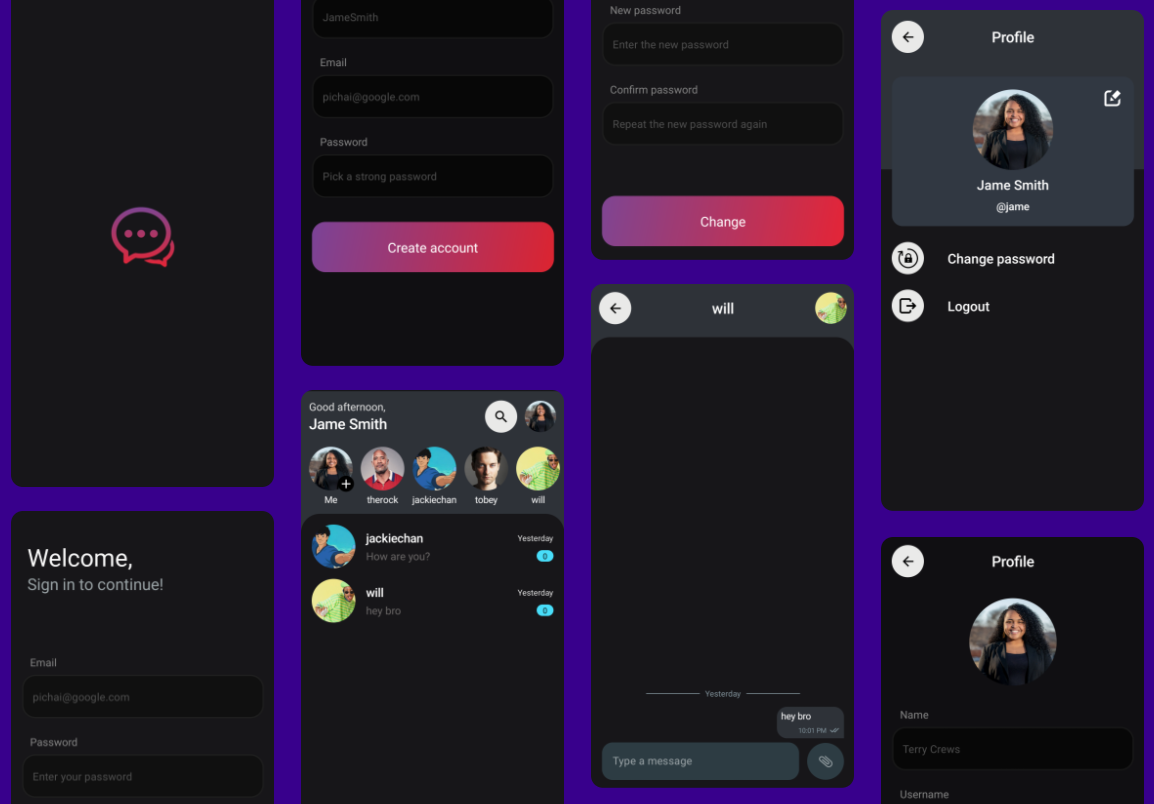
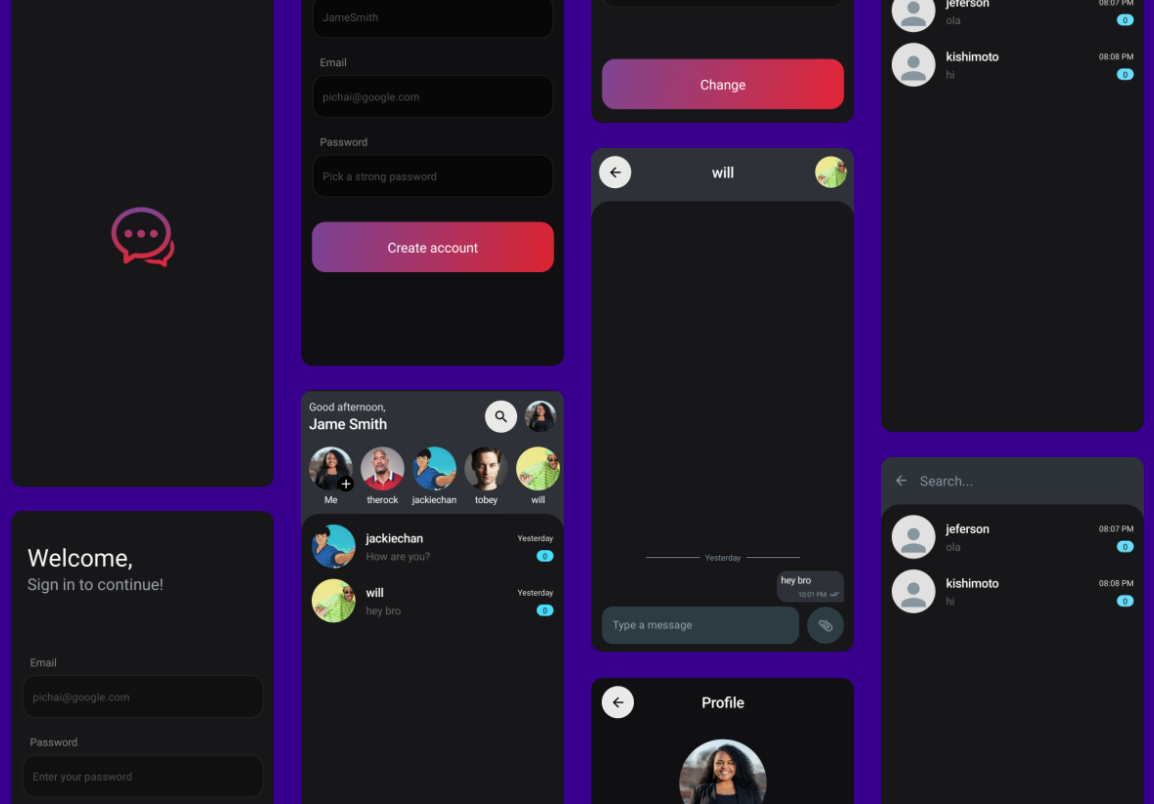
added implement search

diff --git a/app/src/main/java/com/jefisu/chatapp/features_chat/presentation/home/HomeScreen.kt b/app/src/main/java/com/jefisu/chatapp/features_chat/presentation/home/HomeScreen.kt
@@ -1,28 +1,51 @@
 package com.jefisu.chatapp.features_chat.presentation.home
 
-import android.widget.Toast
+import androidx.compose.animation.AnimatedVisibility
+import androidx.compose.animation.fadeIn
+import androidx.compose.animation.fadeOut
+import androidx.compose.foundation.ExperimentalFoundationApi
 import androidx.compose.foundation.background
-import androidx.compose.foundation.layout.*
+import androidx.compose.foundation.layout.Box
+import androidx.compose.foundation.layout.Column
+import androidx.compose.foundation.layout.Row
+import androidx.compose.foundation.layout.Spacer
+import androidx.compose.foundation.layout.fillMaxSize
+import androidx.compose.foundation.layout.fillMaxWidth
+import androidx.compose.foundation.layout.height
+import androidx.compose.foundation.layout.padding
+import androidx.compose.foundation.layout.width
 import androidx.compose.foundation.lazy.LazyColumn
 import androidx.compose.foundation.lazy.LazyRow
 import androidx.compose.foundation.lazy.items
 import androidx.compose.foundation.shape.RoundedCornerShape
+import androidx.compose.material.Icon
+import androidx.compose.material.IconButton
 import androidx.compose.material.Text
+import androidx.compose.material.TextField
+import androidx.compose.material.TextFieldDefaults
 import androidx.compose.material.icons.Icons
+import androidx.compose.material.icons.filled.ArrowBack
+import androidx.compose.material.icons.filled.Close
 import androidx.compose.material.icons.filled.Search
 import androidx.compose.runtime.Composable
 import androidx.compose.runtime.LaunchedEffect
 import androidx.compose.runtime.collectAsState
 import androidx.compose.runtime.getValue
+import androidx.compose.runtime.mutableStateOf
+import androidx.compose.runtime.remember
+import androidx.compose.runtime.setValue
 import androidx.compose.ui.Alignment
 import androidx.compose.ui.Modifier
 import androidx.compose.ui.draw.clip
 import androidx.compose.ui.graphics.Color
 import androidx.compose.ui.platform.LocalContext
+import androidx.compose.ui.res.stringResource
+import androidx.compose.ui.text.TextStyle
 import androidx.compose.ui.text.font.FontWeight
 import androidx.compose.ui.unit.dp
 import androidx.compose.ui.unit.sp
 import androidx.hilt.navigation.compose.hiltViewModel
+import com.jefisu.chatapp.R
 import com.jefisu.chatapp.core.data.model.User
 import com.jefisu.chatapp.core.util.CustomTransitions
 import com.jefisu.chatapp.destinations.ChatScreenDestination
@@ -32,6 +55,7 @@ import com.jefisu.chatapp.features_chat.core.components.ProfileImage
 import com.jefisu.chatapp.features_chat.core.util.DateUtil
 import com.jefisu.chatapp.features_chat.presentation.home.components.ChatItem
 import com.jefisu.chatapp.features_chat.presentation.home.components.UserItem
+import com.jefisu.chatapp.ui.theme.CoolGrey
 import com.jefisu.chatapp.ui.theme.Gunmetal
 import com.jefisu.chatapp.ui.theme.Platinum
 import com.jefisu.chatapp.ui.theme.Woodsmoke
@@ -39,6 +63,7 @@ import com.ramcosta.composedestinations.annotation.Destination
 import com.ramcosta.composedestinations.annotation.RootNavGraph
 import com.ramcosta.composedestinations.navigation.DestinationsNavigator
 
+@OptIn(ExperimentalFoundationApi::class)
 @RootNavGraph
 @Destination(
     style = CustomTransitions::class,
@@ -51,112 +76,175 @@ fun HomeScreen(
 ) {
     val context = LocalContext.current
     val state by viewModel.state.collectAsState()
+    var isSearching by remember { mutableStateOf(false) }
 
     LaunchedEffect(key1 = true) {
         viewModel.getUser()
     }
 
-    state?.let { s ->
-        val ownerUser = s.ownerUser
-        val chats = s.chats
-        val users = s.users
+    state?.let { _state ->
+        val ownerUser = _state.ownerUser
+        val chats = _state.chats
+        val users = _state.users
+        val searchQuery = _state.searchQuery
 
         Column(
-            modifier = Modifier
-                .background(Gunmetal)
-                .padding(top = 12.dp)
+            modifier = Modifier.background(Gunmetal)
         ) {
-            Row(
-                verticalAlignment = Alignment.CenterVertically,
-                modifier = Modifier.padding(horizontal = 12.dp)
-            ) {
-                Column(
-                    modifier = Modifier.weight(1f),
-                ) {
-                    Text(
-                        text = DateUtil.timeOfDay(),
-                        fontSize = 16.sp,
-                        color = Platinum
-                    )
-                    Text(
-                        text = ownerUser.name ?: ownerUser.username,
-                        color = Color.White,
-                        fontSize = 22.sp,
-                        fontWeight = FontWeight.Medium
-                    )
-                }
-                CustomIconButton(
-                    icon = Icons.Default.Search,
-                    onClick = {
-                        Toast.makeText(context, "Is not implemented", Toast.LENGTH_SHORT).show()
-                    }
-                )
-                Spacer(modifier = Modifier.width(12.dp))
-                ProfileImage(
-                    avatarUrl = ownerUser.avatarUrl,
-                    size = 47.dp,
-                    onClick = {
-                        navigator.navigate(ProfileScreenDestination(ownerUser))
-                    }
-                )
-            }
-            Spacer(modifier = Modifier.height(20.dp))
-            LazyRow {
-                item {
-                    Spacer(modifier = Modifier.width(12.dp))
-                    UserItem(
-                        user = ownerUser,
-                        isFirstOwner = true,
-                        onClick = {}
-                    )
-                    Spacer(modifier = Modifier.width(12.dp))
-                }
-                items(users) { user ->
-                    UserItem(
-                        user = user,
-                        onClick = {
-                            val existChat = chats.find {
-                                it.recipientUser == user
-                            }
-                            navigator.navigate(
-                                ChatScreenDestination(
-                                    chatId = existChat?.id,
-                                    ownerUsername = ownerUser.username,
-                                    recipientUsername = user.username
-                                )
+            AnimatedVisibility(visible = !isSearching) {
+                Column {
+                    Row(
+                        verticalAlignment = Alignment.CenterVertically,
+                        modifier = Modifier
+                            .padding(horizontal = 12.dp)
+                            .padding(top = 12.dp)
+                    ) {
+                        Column(
+                            modifier = Modifier.weight(1f),
+                        ) {
+                            Text(
+                                text = DateUtil.timeOfDay(),
+                                fontSize = 16.sp,
+                                color = Platinum
+                            )
+                            Text(
+                                text = ownerUser.name ?: ownerUser.username,
+                                color = Color.White,
+                                fontSize = 22.sp,
+                                fontWeight = FontWeight.Medium
                             )
                         }
-                    )
-                    Spacer(modifier = Modifier.width(12.dp))
+                        CustomIconButton(
+                            icon = Icons.Default.Search,
+                            onClick = { isSearching = !isSearching }
+                        )
+                        Spacer(modifier = Modifier.width(12.dp))
+                        ProfileImage(
+                            avatarUrl = ownerUser.avatarUrl,
+                            size = 47.dp,
+                            onClick = {
+                                navigator.navigate(ProfileScreenDestination(ownerUser))
+                            }
+                        )
+                        Spacer(modifier = Modifier.height(12.dp))
+                    }
+                    Spacer(modifier = Modifier.height(20.dp))
+                    LazyRow {
+                        item {
+                            Spacer(modifier = Modifier.width(12.dp))
+                            UserItem(
+                                user = ownerUser,
+                                isFirstOwner = true,
+                                onClick = {}
+                            )
+                            Spacer(modifier = Modifier.width(12.dp))
+                        }
+                        items(users) { user ->
+                            UserItem(
+                                user = user,
+                                onClick = {
+                                    val existChat = chats.find {
+                                        it.recipientUser == user
+                                    }
+                                    navigator.navigate(
+                                        ChatScreenDestination(
+                                            chatId = existChat?.id,
+                                            ownerUsername = ownerUser.username,
+                                            recipientUsername = user.username
+                                        )
+                                    )
+                                }
+                            )
+                            Spacer(modifier = Modifier.width(12.dp))
+                        }
+                    }
+                    Spacer(modifier = Modifier.height(12.dp))
                 }
             }
-            Spacer(modifier = Modifier.height(12.dp))
-            LazyColumn(
+            AnimatedVisibility(visible = isSearching) {
+                TextField(
+                    value = searchQuery,
+                    onValueChange = viewModel::searchChats,
+                    singleLine = true,
+                    placeholder = { Text(text = "Search...", fontSize = 20.sp) },
+                    textStyle = TextStyle(fontSize = 20.sp),
+                    leadingIcon = {
+                        IconButton(onClick = {
+                            isSearching = !isSearching
+                            viewModel.searchChats("")
+                        }) {
+                            Icon(
+                                imageVector = Icons.Default.ArrowBack,
+                                contentDescription = "Close search",
+                                tint = CoolGrey
+                            )
+                        }
+                    },
+                    trailingIcon = {
+                        if (searchQuery.isNotEmpty()) {
+                            IconButton(onClick = { viewModel.searchChats("") }) {
+                                Icon(
+                                    imageVector = Icons.Default.Close,
+                                    contentDescription = "Clear search query",
+                                    tint = CoolGrey
+                                )
+                            }
+                        }
+                    },
+                    colors = TextFieldDefaults.textFieldColors(
+                        cursorColor = Color.White,
+                        textColor = Color.White,
+                        placeholderColor = CoolGrey,
+                        backgroundColor = Color.Transparent,
+                        unfocusedIndicatorColor = Color.Transparent,
+                        focusedIndicatorColor = Color.Transparent
+                    ),
+                    modifier = Modifier
+                        .fillMaxWidth()
+                        .padding(6.dp)
+                )
+            }
+            Box(
                 modifier = Modifier
                     .fillMaxSize()
                     .clip(RoundedCornerShape(topStart = 28.dp, topEnd = 28.dp))
                     .background(Woodsmoke)
             ) {
-                item {
-                    Spacer(modifier = Modifier.height(16.dp))
+                this@Column.AnimatedVisibility(
+                    visible = chats.isEmpty() && searchQuery.isNotEmpty(),
+                    enter = fadeIn(),
+                    exit = fadeOut(),
+                    modifier = Modifier.align(Alignment.Center)
+                ) {
+                    Text(
+                        text = stringResource(R.string.no_results_found),
+                        color = Color.White,
+                        fontSize = 18.sp
+                    )
                 }
-                items(chats) { chat ->
-                    chat.lastMessage?.let {
-                        ChatItem(
-                            chat = chat,
-                            lastMessage = it,
-                            onNavigateClick = {
-                                navigator.navigate(
-                                    ChatScreenDestination(
-                                        chat.id,
-                                        ownerUser.username,
-                                        chat.recipientUser.username
-                                    )
-                                )
-                            },
-                            onClickImage = { /*TODO*/ }
-                        )
+                LazyColumn {
+                    item {
                         Spacer(modifier = Modifier.height(16.dp))
+                    }
+                    items(chats, key = { it.id }) { chat ->
+                        chat.lastMessage?.let {
+                            ChatItem(
+                                chat = chat,
+                                lastMessage = it,
+                                onNavigateClick = {
+                                    navigator.navigate(
+                                        ChatScreenDestination(
+                                            chat.id,
+                                            ownerUser.username,
+                                            chat.recipientUser.username
+                                        )
+                                    )
+                                },
+                                onClickImage = { /*TODO*/ },
+                                modifier = Modifier.animateItemPlacement()
+                            )
+                            Spacer(modifier = Modifier.height(16.dp))
+                        }
                     }
                 }
             }

diff --git a/app/src/main/java/com/jefisu/chatapp/features_chat/presentation/home/HomeViewModel.kt b/app/src/main/java/com/jefisu/chatapp/features_chat/presentation/home/HomeViewModel.kt
@@ -28,13 +28,12 @@ class HomeViewModel @Inject constructor(
     private val chatsFlow = chatUseCases.getChatsByUser(user)
     private val usersFlow = chatUseCases.getAllUsers(user.username)
     private val userFlow = savedStateHandle.getStateFlow("user", user)
+    private val searchQuery = savedStateHandle.getStateFlow("searchQuery", "")
 
-    val state = combine(chatsFlow, usersFlow, userFlow) { chats, users, curUser ->
-        val filteredUsers = users.filterIndexed { index, _ -> index < 10 }
-        HomeState(
-            users = filteredUsers,
-            ownerUser = curUser,
-            chats = chats.map { chat ->
+    val state =
+        combine(chatsFlow, usersFlow, userFlow, searchQuery) { chats, users, curUser, searchQuery ->
+            val filteredUsers = users.filterIndexed { index, _ -> index < 10 }
+            val curChats = chats.map { chat ->
                 val user = chat.users.first { it != curUser }
                 val lastMessage = chat.messages.firstOrNull()
                 ChatPreview(
@@ -44,9 +43,18 @@ class HomeViewModel @Inject constructor(
                     ownerSentLastMessage = curUser == user,
                     timeLastMessage = DateUtil.getLastMessageTime(lastMessage?.timestamp ?: 0L)
                 )
+            }.filter { chat ->
+                chat.lastMessage?.text?.contains(searchQuery, true) ?: false
+                        || chat.recipientUser.name?.contains(searchQuery, true) ?: false
+                        || chat.recipientUser.username.contains(searchQuery, true)
             }
-        )
-    }.stateIn(viewModelScope, SharingStarted.WhileSubscribed(), null)
+            HomeState(
+                searchQuery = searchQuery,
+                users = filteredUsers,
+                ownerUser = curUser,
+                chats = curChats
+            )
+        }.stateIn(viewModelScope, SharingStarted.WhileSubscribed(), null)
 
     fun getUser() {
         val username = prefs.getString("username", null) ?: user.username
@@ -56,8 +64,13 @@ class HomeViewModel @Inject constructor(
                 is Resource.Success -> {
                     savedStateHandle["user"] = result.data
                 }
+
                 is Resource.Error -> Unit
             }
         }
+    }
+
+    fun searchChats(query: String) {
+        savedStateHandle["searchQuery"] = query
     }
 }

diff --git a/app/src/main/java/com/jefisu/chatapp/features_chat/presentation/home/HomeState.kt b/app/src/main/java/com/jefisu/chatapp/features_chat/presentation/home/HomeState.kt
@@ -5,5 +5,6 @@ import com.jefisu.chatapp.core.data.model.User
 data class HomeState(
     val ownerUser: User,
     val chats: List<ChatPreview>,
-    val users: List<User>
+    val users: List<User>,
+    val searchQuery: String
 )
